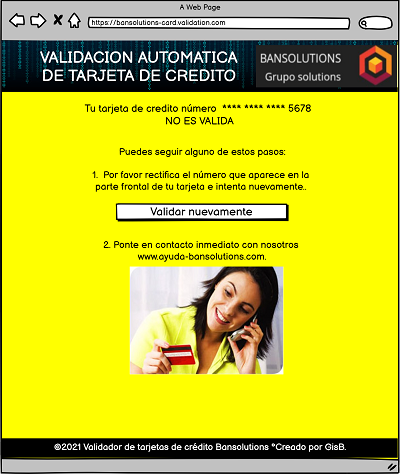
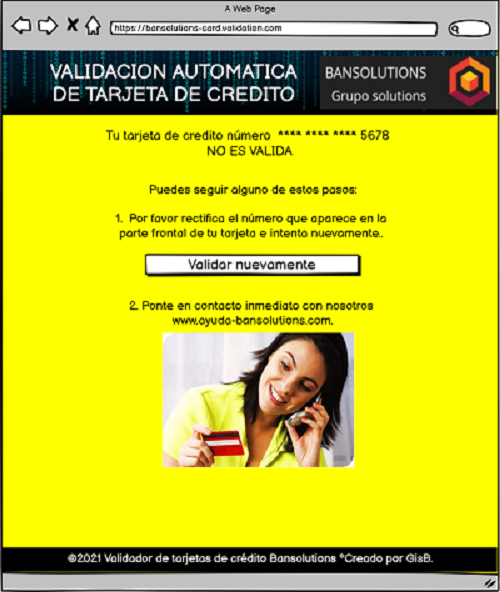
cambios en readme prueba 2

diff --git a/README.md b/README.md
@@ -37,7 +37,7 @@ xxxxxxxxxx
 
 ### 3.5. Prototipo Final (Final Prototype)
 
-[Imagen prototipo final en balsamiq](img/bienvenida.png)
+![Imagen prototipo final en balsamiq](img/bienvenida.png)
 
 ![Imagen prototipo respuesta true](img/validadortrue.png)
 
